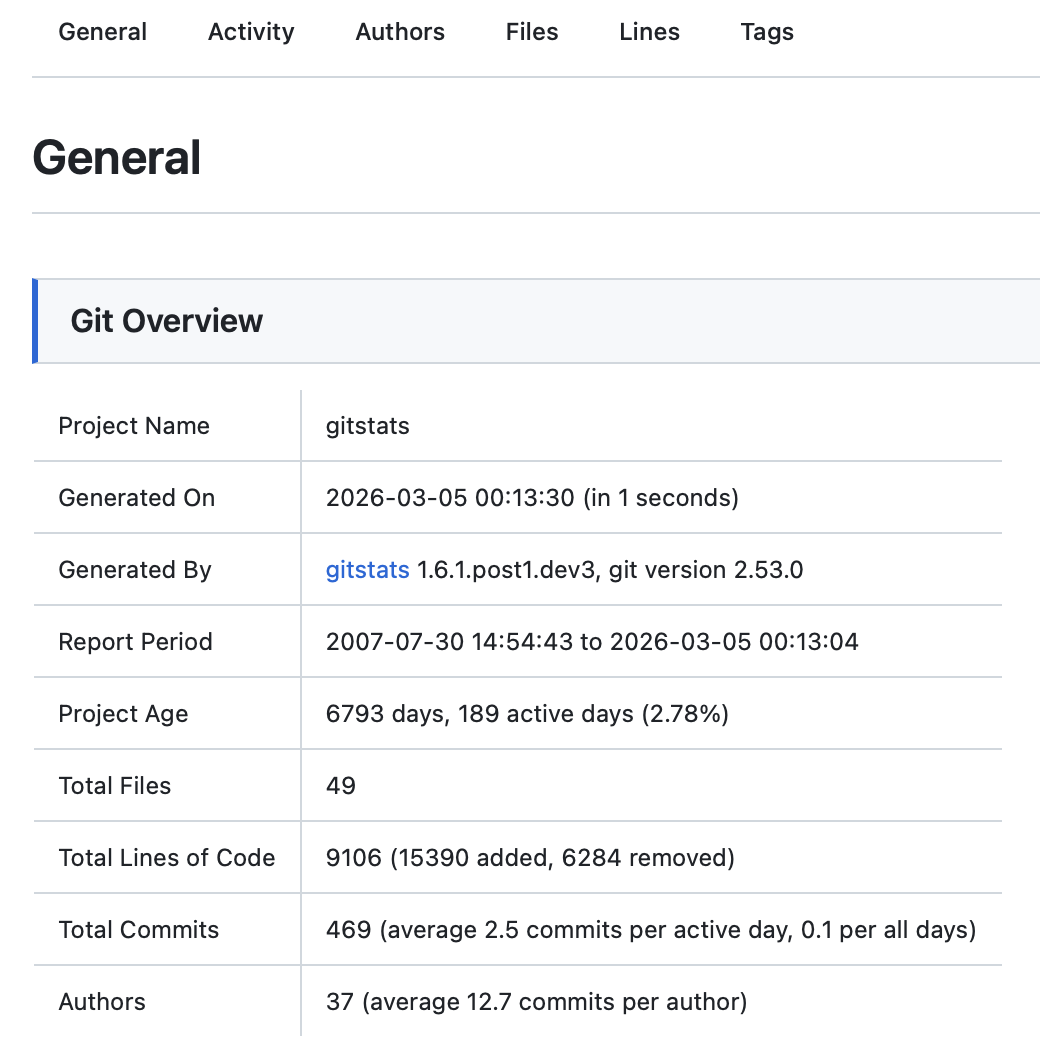
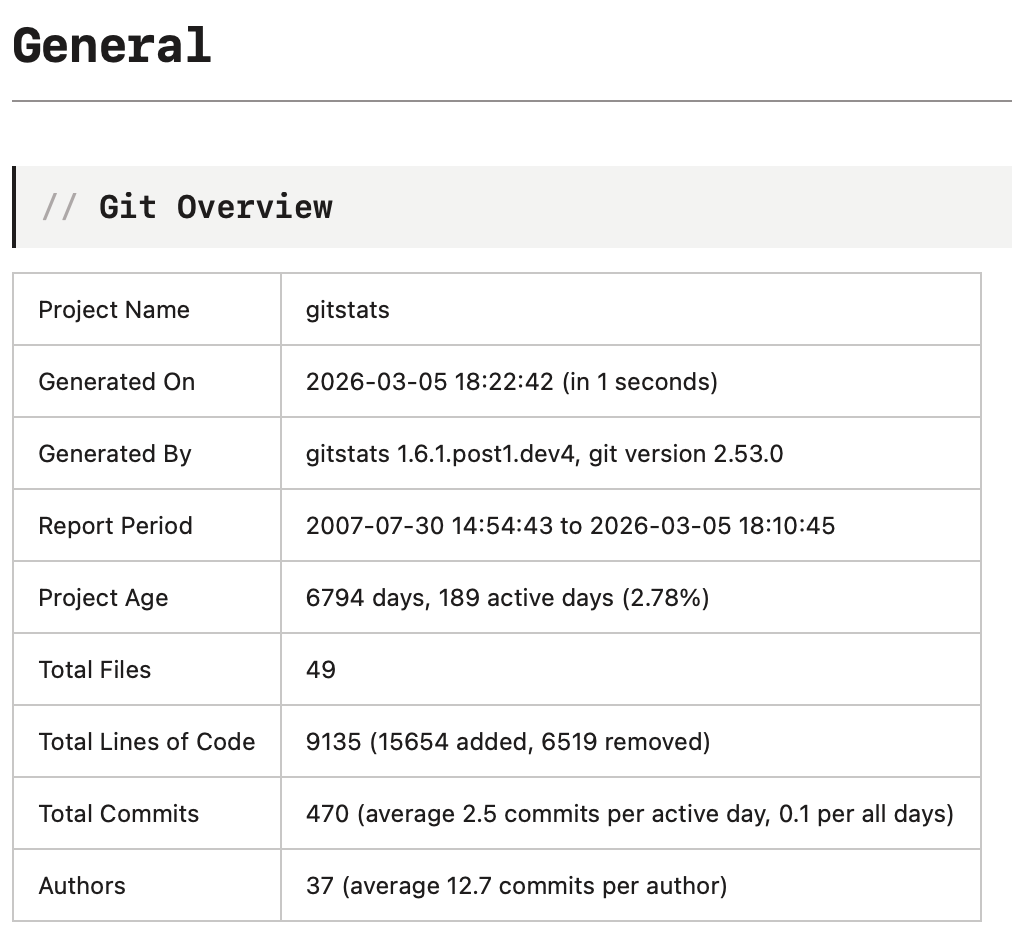
checkpoint at 2026-03-05T20:33:14+0200

diff --git a/content/posts/2026/gitstats-2.0/index.md b/content/posts/2026/gitstats-2.0/index.md
@@ -13,6 +13,8 @@ date: 2026-03-05
 
 昨晚我给自己维护的一个开源项目 [GitStats](https://github.com/shenxianpeng/gitstats) 做了一次重大的升级——UI 全面现代化，图表引擎彻底替换。
 
+![Release Notes](release-notes.png)
+
 说实话，动手之前我没想到效果会有这么大的飞跃——改完之后对比一看，旧版本的界面真的有点"上古感"。
 
 ## GitStats 是什么？
@@ -54,8 +56,8 @@ gitstats . report
 
 改动集中在几个方向：
 
-**整体视觉语言的现代化**
-卡片式布局、圆角、微妙的阴影、更合理的字体层级……这些细节叠加起来，让整个报告看起来像是一个"产品"，而不是一个"脚本输出"。
+**Terminal 风格的视觉语言**
+灵感来自终端界面和 OpenCode 的设计风格：**零圆角（sharp corners）**、标题和导航栏使用**等宽字体**、**重边框布局**——整体给人一种干净、硬朗的工程感觉。
 
 **响应式适配**
 现在在手机上也能正常查看了。以前在移动端打开基本是灾难。
@@ -81,6 +83,7 @@ gitstats . report
 新版本：
 
 {{< gallery >}}
+  <img src="new-home.png" class="grid-w30" />
   <img src="new-1.png" class="grid-w30" />
   <img src="new-2.png" class="grid-w30" />
   <img src="new-3.png" class="grid-w30" />
